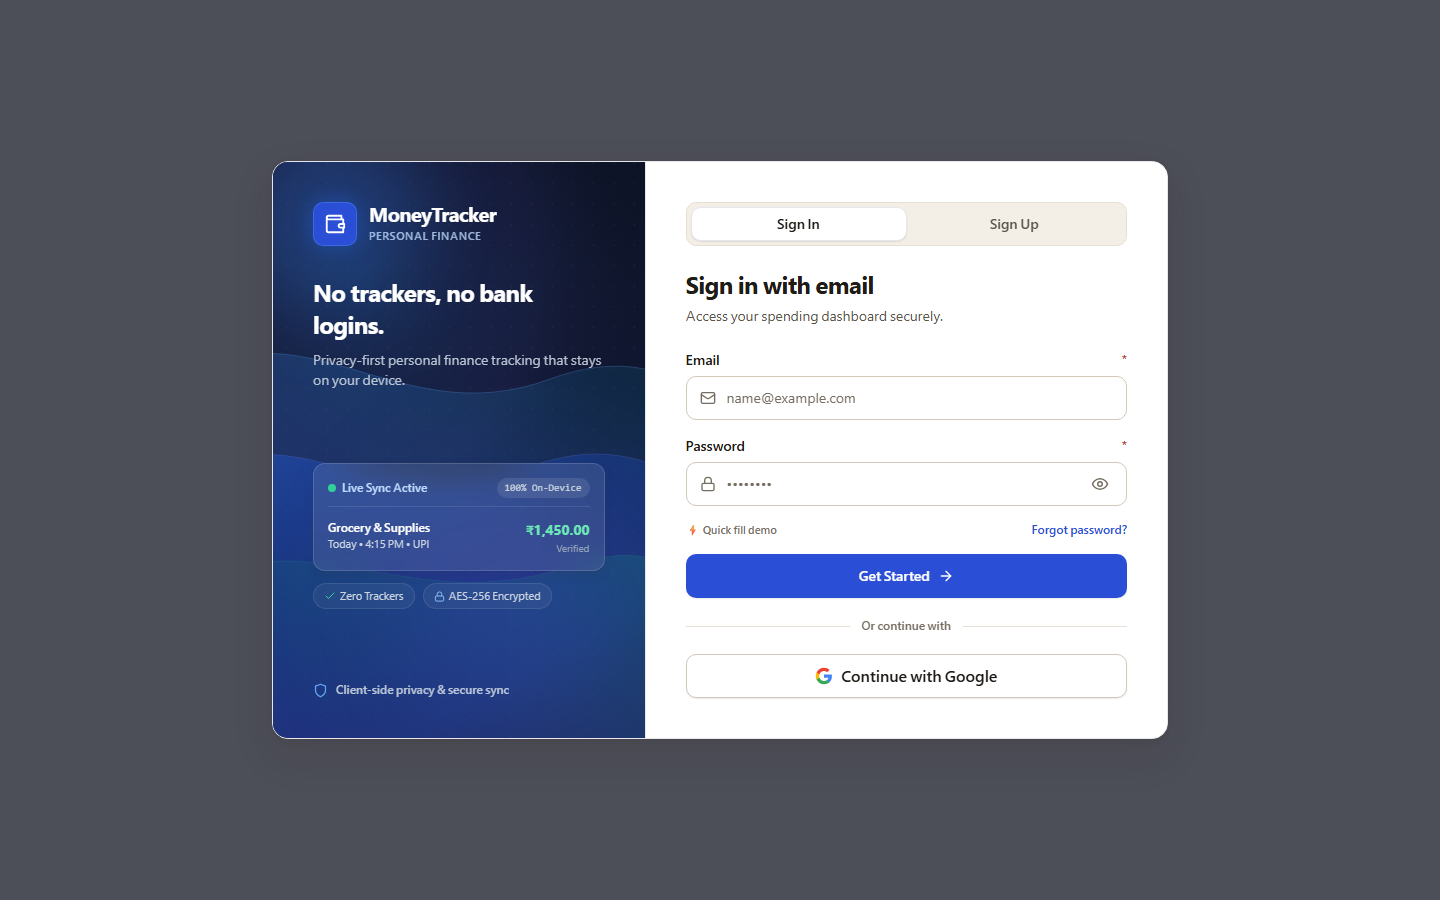
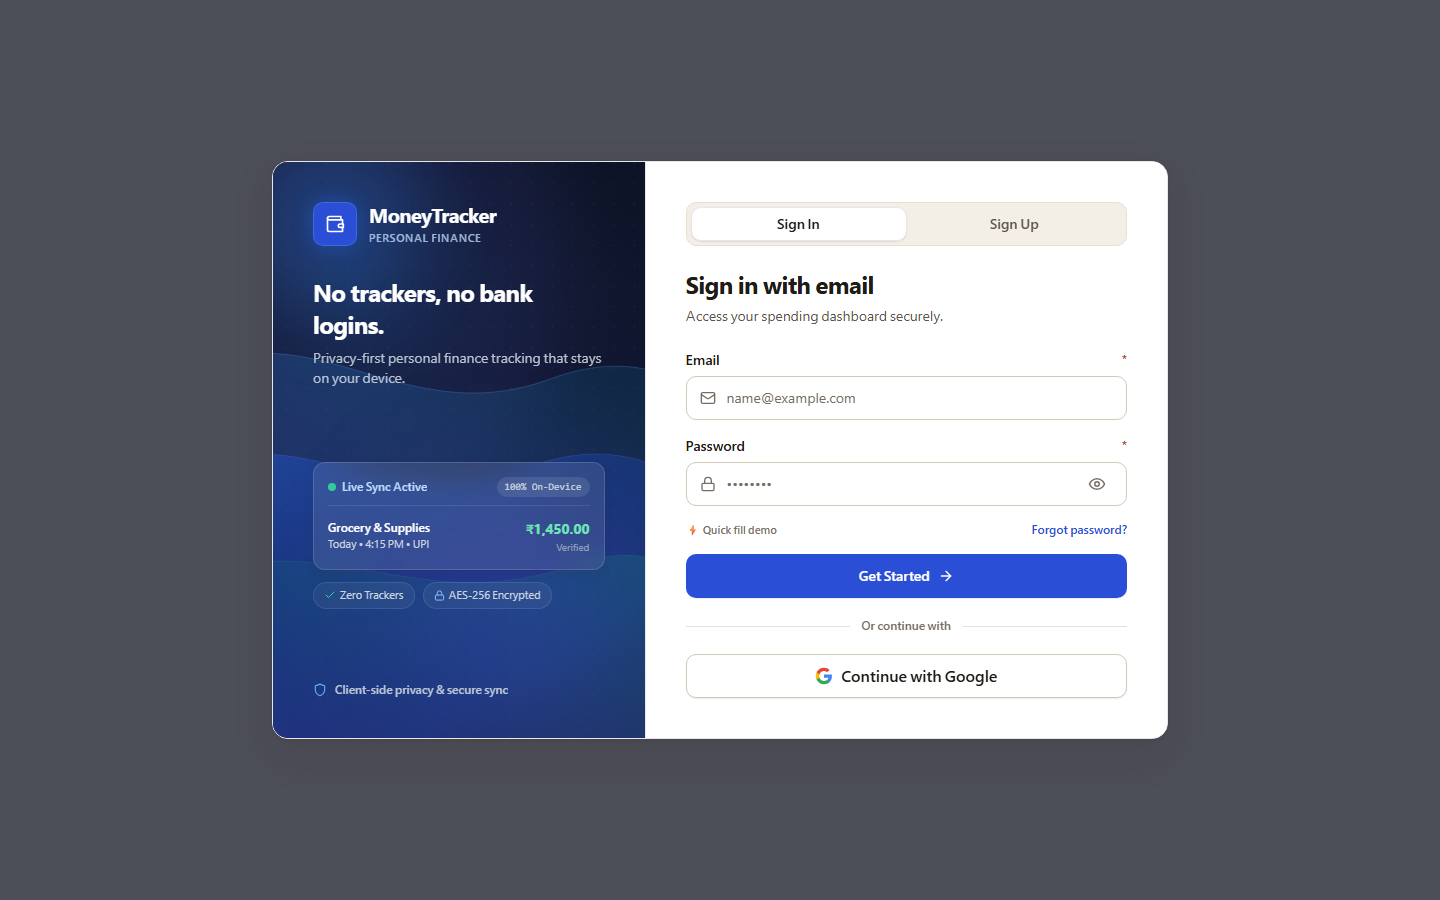
fix(auth): optimize responsive layout across small phones, tablets, and desktops

diff --git a/apps/web/src/components/auth/AuthModal.tsx b/apps/web/src/components/auth/AuthModal.tsx
@@ -196,7 +196,7 @@ export function AuthModal() {
   return (
     <div
       id="authModal"
-      className="fixed inset-0 z-[10000] flex items-center justify-center p-4 sm:p-6 bg-slate-950/70 backdrop-blur-md overflow-y-auto"
+      className="fixed inset-0 z-[10000] flex items-center justify-center p-3 sm:p-6 bg-slate-950/70 backdrop-blur-md overflow-y-auto overscroll-contain"
     >
       {/* Split Layout Modal Card with spring entrance animation */}
       <m.div
@@ -206,7 +206,7 @@ export function AuthModal() {
         className="relative bg-surface rounded-card border border-line/90 shadow-3 w-full max-w-4xl overflow-hidden flex flex-col md:flex-row my-auto transition-all"
       >
         {/* Left Panel: Desktop Split Screen / Mobile Header Strip (High Contrast Brand Experience) */}
-        <div className="relative w-full md:w-5/12 p-6 sm:p-8 md:p-10 flex flex-col justify-between shrink-0 border-b md:border-b-0 md:border-r border-line/80 overflow-hidden bg-slate-950 text-white">
+        <div className="relative w-full md:w-5/12 p-4 sm:p-6 md:p-8 lg:p-10 flex flex-col justify-between shrink-0 border-b md:border-b-0 md:border-r border-line/80 overflow-hidden bg-slate-950 text-white">
           {/* Layered Wave SVG Art (Direct Data URI ensures 100% reliable load with zero 404s) */}
           <img
             id="authWaveImg"
@@ -228,49 +228,49 @@ export function AuthModal() {
 
           {/* Top Section: Brand Identity */}
           <div className="relative z-10">
-            <div className="flex items-center gap-3">
-              <div className="w-11 h-11 rounded-btn bg-accent text-white flex items-center justify-center shadow-[0_0_20px_rgba(37,99,235,0.45)] border border-blue-400/30 shrink-0">
-                <WalletIcon size={22} />
+            <div className="flex items-center gap-2.5 sm:gap-3">
+              <div className="w-9 h-9 sm:w-11 sm:h-11 rounded-btn bg-accent text-white flex items-center justify-center shadow-[0_0_20px_rgba(37,99,235,0.45)] border border-blue-400/30 shrink-0">
+                <WalletIcon size={20} />
               </div>
               <div>
-                <span className="font-display text-xl font-bold block text-white leading-tight tracking-tight">
+                <span className="font-display text-lg sm:text-xl font-bold block text-white leading-tight tracking-tight">
                   MoneyTracker
                 </span>
-                <span className="text-[11px] font-medium text-blue-200/80 block uppercase tracking-wider">
+                <span className="text-[10px] sm:text-[11px] font-medium text-blue-200/80 block uppercase tracking-wider">
                   Personal Finance
                 </span>
               </div>
             </div>
 
             {/* PRD Vision Statement */}
-            <div className="mt-6 md:mt-8">
-              <p className="font-display text-xl md:text-2xl font-bold text-white leading-snug tracking-tight">
+            <div className="mt-3 sm:mt-6 md:mt-8">
+              <p className="font-display text-base sm:text-xl md:text-2xl font-bold text-white leading-snug tracking-tight">
                 No trackers, no bank logins.
               </p>
-              <p className="text-xs sm:text-sm text-slate-300/90 mt-2 hidden md:block leading-relaxed">
+              <p className="text-xs sm:text-sm text-slate-300/90 mt-1.5 hidden md:block leading-relaxed">
                 Privacy-first personal finance tracking that stays on your device.
               </p>
             </div>
           </div>
 
-          {/* Middle Section: Skiper UI Live Component Preview Card (Desktop only) */}
-          <div className="relative z-10 my-6 hidden md:block">
-            <div className="bg-white/10 backdrop-blur-md border border-white/15 rounded-xl p-3.5 shadow-2 text-white">
-              <div className="flex items-center justify-between text-xs mb-2.5 pb-2 border-b border-white/10">
-                <span className="flex items-center gap-1.5 text-blue-200 font-medium">
-                  <span className="w-2 h-2 rounded-full bg-emerald-400 animate-pulse" />
+          {/* Middle Section: Skiper UI Live Component Preview Card (Desktop & Tablet only) */}
+          <div className="relative z-10 my-4 sm:my-6 hidden md:block">
+            <div className="bg-white/10 backdrop-blur-md border border-white/15 rounded-xl p-3 sm:p-3.5 shadow-2 text-white">
+              <div className="flex items-center justify-between text-xs mb-2.5 pb-2 border-b border-white/10 gap-2">
+                <span className="flex items-center gap-1.5 text-blue-200 font-medium truncate">
+                  <span className="w-2 h-2 rounded-full bg-emerald-400 animate-pulse shrink-0" />
                   Live Sync Active
                 </span>
-                <span className="text-[10px] bg-white/10 px-2 py-0.5 rounded-pill text-slate-300 font-mono">
+                <span className="text-[10px] bg-white/10 px-2 py-0.5 rounded-pill text-slate-300 font-mono whitespace-nowrap shrink-0">
                   100% On-Device
                 </span>
               </div>
-              <div className="flex items-center justify-between">
-                <div>
-                  <p className="text-xs font-semibold text-white">Grocery & Supplies</p>
-                  <p className="text-[11px] text-slate-300">Today • 4:15 PM • UPI</p>
+              <div className="flex items-center justify-between gap-2">
+                <div className="min-w-0">
+                  <p className="text-xs font-semibold text-white truncate">Grocery & Supplies</p>
+                  <p className="text-[11px] text-slate-300 truncate">Today • 4:15 PM • UPI</p>
                 </div>
-                <div className="text-right">
+                <div className="text-right shrink-0">
                   <span className="text-sm font-bold text-emerald-300 tabular-nums">
                     ₹1,450.00
                   </span>
@@ -280,25 +280,25 @@ export function AuthModal() {
             </div>
 
             {/* Trust feature pills */}
-            <div className="mt-3 flex flex-wrap gap-2">
-              <span className="inline-flex items-center gap-1 text-[11px] text-slate-300 bg-white/5 border border-white/10 px-2.5 py-1 rounded-pill">
-                <CheckIcon size={12} className="text-emerald-400" /> Zero Trackers
+            <div className="mt-2.5 sm:mt-3 flex flex-wrap gap-1.5 sm:gap-2">
+              <span className="inline-flex items-center gap-1 text-[10px] sm:text-[11px] text-slate-300 bg-white/5 border border-white/10 px-2 sm:px-2.5 py-1 rounded-pill whitespace-nowrap">
+                <CheckIcon size={12} className="text-emerald-400 shrink-0" /> Zero Trackers
               </span>
-              <span className="inline-flex items-center gap-1 text-[11px] text-slate-300 bg-white/5 border border-white/10 px-2.5 py-1 rounded-pill">
-                <LockIcon size={11} className="text-blue-300" /> AES-256 Encrypted
+              <span className="inline-flex items-center gap-1 text-[10px] sm:text-[11px] text-slate-300 bg-white/5 border border-white/10 px-2 sm:px-2.5 py-1 rounded-pill whitespace-nowrap">
+                <LockIcon size={11} className="text-blue-300 shrink-0" /> AES-256 Encrypted
               </span>
             </div>
           </div>
 
           {/* Bottom Security Footnote */}
-          <div className="relative z-10 flex items-center gap-2 text-xs text-slate-300/90 pt-3 md:pt-0">
-            <ShieldIcon size={15} className="text-blue-400 shrink-0" />
-            <span className="font-medium">Client-side privacy & secure sync</span>
+          <div className="relative z-10 flex items-center gap-2 text-xs text-slate-300/90 pt-2 sm:pt-3 md:pt-0">
+            <ShieldIcon size={14} className="text-blue-400 shrink-0" />
+            <span className="font-medium text-[11px] sm:text-xs">Client-side privacy & secure sync</span>
           </div>
         </div>
 
         {/* Right Panel: Clean, High-Contrast Interactive Form Area */}
-        <div className="w-full md:w-7/12 p-6 sm:p-8 md:p-10 bg-surface flex flex-col justify-center">
+        <div className="w-full md:w-7/12 p-4 sm:p-6 md:p-8 lg:p-10 bg-surface flex flex-col justify-center">
           {/* Mode Switch: SegmentedControl */}
           <SegmentedControl
             id="authModeControl"
@@ -311,12 +311,12 @@ export function AuthModal() {
               setAuthMode(val as 'signin' | 'signup');
               setStatusMessage(null);
             }}
-            className="w-full mb-6"
+            className="w-full mb-4 sm:mb-6"
           />
 
           {/* Mode Header */}
-          <div className="mb-6">
-            <h2 className="font-display text-xl sm:text-2xl font-bold text-ink mb-1 tracking-tight">
+          <div className="mb-4 sm:mb-6">
+            <h2 className="font-display text-lg sm:text-2xl font-bold text-ink mb-1 tracking-tight">
               {authMode === 'signup' ? 'Create your account' : 'Sign in with email'}
             </h2>
             <p className="text-xs sm:text-sm text-ink-2">
@@ -331,7 +331,7 @@ export function AuthModal() {
             <div
               id="authError"
               role={statusMessage.type === 'error' ? 'alert' : 'status'}
-              className={`p-3.5 rounded-btn text-xs sm:text-sm mb-5 border flex items-center gap-2.5 transition-all duration-fast ${
+              className={`p-3 sm:p-3.5 rounded-btn text-xs sm:text-sm mb-4 sm:mb-5 border flex items-center gap-2.5 transition-all duration-fast ${
                 statusMessage.type === 'error'
                   ? 'bg-danger-tint text-danger border-danger/30'
                   : 'bg-income-tint text-income border-income/30'
@@ -351,7 +351,7 @@ export function AuthModal() {
           )}
 
           {/* Main Auth Form */}
-          <form id="authForm" onSubmit={handleEmailSubmit} className="space-y-4" noValidate>
+          <form id="authForm" onSubmit={handleEmailSubmit} className="space-y-3.5 sm:space-y-4" noValidate>
             {/* Email Field */}
             <TextInput
               id="authEmail"
@@ -383,7 +383,7 @@ export function AuthModal() {
                   id="togglePassword"
                   aria-label={showPassword ? 'Hide password' : 'Show password'}
                   onClick={() => setShowPassword((prev) => !prev)}
-                  className="text-ink-3 hover:text-ink focus-visible:outline-none focus-visible:ring-2 focus-visible:ring-accent rounded p-1 transition-colors"
+                  className="text-ink-3 hover:text-ink focus-visible:outline-none focus-visible:ring-2 focus-visible:ring-accent rounded p-1.5 transition-colors touch-manipulation min-w-[32px] min-h-[32px] flex items-center justify-center"
                 >
                   {showPassword ? (
                     <EyeOffIcon size={18} id="eyeIcon" />
@@ -397,7 +397,7 @@ export function AuthModal() {
 
             {/* Animata Interactive Password Strength Indicator (Sign Up Mode) */}
             {authMode === 'signup' && passwordLength > 0 && (
-              <div className="p-2.5 rounded-btn bg-surface-2 border border-line text-xs space-y-1.5 animate-fadeIn">
+              <div className="p-2 sm:p-2.5 rounded-btn bg-surface-2 border border-line text-xs space-y-1.5 animate-fadeIn">
                 <div className="flex items-center justify-between text-[11px] text-ink-2 font-medium">
                   <span>Password strength:</span>
                   <span
@@ -443,7 +443,7 @@ export function AuthModal() {
 
             {/* Forgot Password Toggle (Sign in mode) */}
             {authMode === 'signin' && (
-              <div className="flex items-center justify-between -mt-1">
+              <div className="flex items-center justify-between -mt-1 gap-2">
                 {import.meta.env.DEV ? (
                   <button
                     type="button"
@@ -460,7 +460,7 @@ export function AuthModal() {
                   type="button"
                   id="forgotPasswordBtn"
                   onClick={() => setIsResetOpen((prev) => !prev)}
-                  className="text-xs text-accent hover:underline font-medium focus-visible:outline-none focus-visible:ring-1 focus-visible:ring-accent rounded transition-colors"
+                  className="text-xs text-accent hover:underline font-medium focus-visible:outline-none focus-visible:ring-1 focus-visible:ring-accent rounded transition-colors whitespace-nowrap ml-auto"
                 >
                   {isResetOpen ? 'Close password reset' : 'Forgot password?'}
                 </button>
@@ -475,7 +475,7 @@ export function AuthModal() {
               size="lg"
               loading={loading}
               disabled={loading || googleLoading}
-              className="w-full justify-center text-sm font-semibold mt-2 shadow-1 hover:shadow-2 active:scale-[0.99] transition-all"
+              className="w-full justify-center text-sm font-semibold mt-2 shadow-1 hover:shadow-2 active:scale-[0.99] transition-all min-h-[44px]"
               icon={<ArrowRightIcon size={16} id="signInIcon" />}
               iconPosition="right"
             >
@@ -489,7 +489,7 @@ export function AuthModal() {
           {isResetOpen && (
             <div
               id="resetPasswordSection"
-              className="mt-4 p-4 rounded-card bg-surface-2 border border-line space-y-3 animate-fadeIn"
+              className="mt-3.5 sm:mt-4 p-3.5 sm:p-4 rounded-card bg-surface-2 border border-line space-y-3 animate-fadeIn"
             >
               <p className="text-xs sm:text-sm text-ink-2 font-medium">
                 Enter your email to receive a password reset link:
@@ -513,7 +513,7 @@ export function AuthModal() {
                   variant="primary"
                   size="md"
                   loading={resetLoading}
-                  className="w-full sm:w-auto shrink-0"
+                  className="w-full sm:w-auto shrink-0 min-h-[40px]"
                 >
                   Send Reset Link
                 </Button>
@@ -522,7 +522,7 @@ export function AuthModal() {
           )}
 
           {/* Or Divider */}
-          <div className="relative flex py-5 items-center">
+          <div className="relative flex py-3.5 sm:py-5 items-center">
             <div className="flex-grow border-t border-line" />
             <span className="shrink-0 mx-3 text-xs text-ink-3 font-medium">
               Or continue with
@@ -539,7 +539,7 @@ export function AuthModal() {
             loading={googleLoading}
             disabled={loading || googleLoading}
             onClick={handleGoogleSignIn}
-            className="w-full justify-center gap-2.5 font-medium border-line hover:border-line-strong hover:bg-surface-2 active:scale-[0.99] transition-all"
+            className="w-full justify-center gap-2.5 font-medium border-line hover:border-line-strong hover:bg-surface-2 active:scale-[0.99] transition-all min-h-[44px]"
             icon={<GoogleIcon size={18} id="googleIcon" />}
           >
             <span id="googleSignInText">Continue with Google</span>
